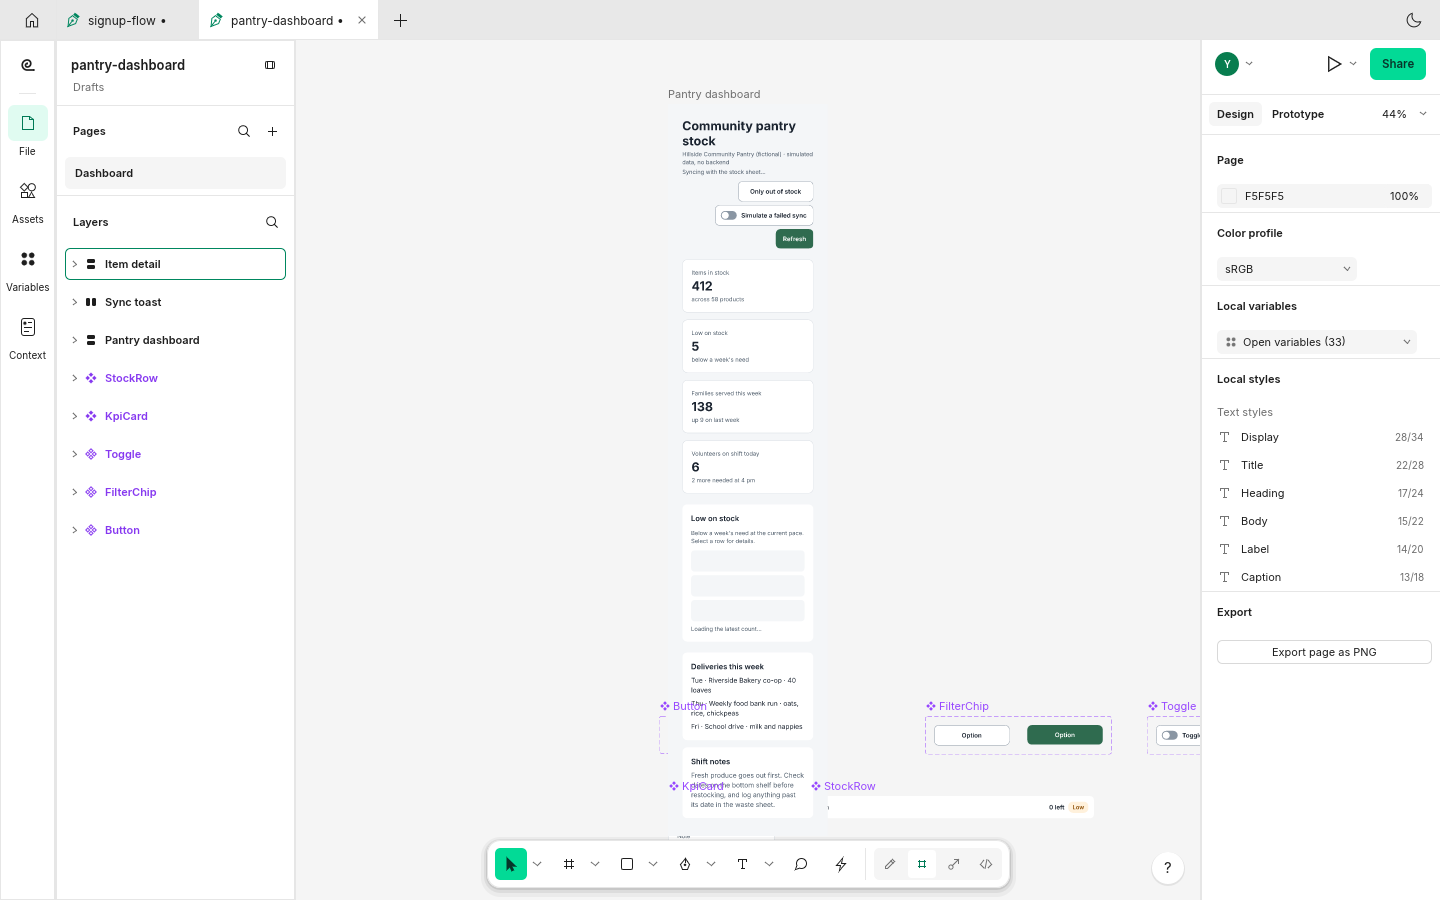
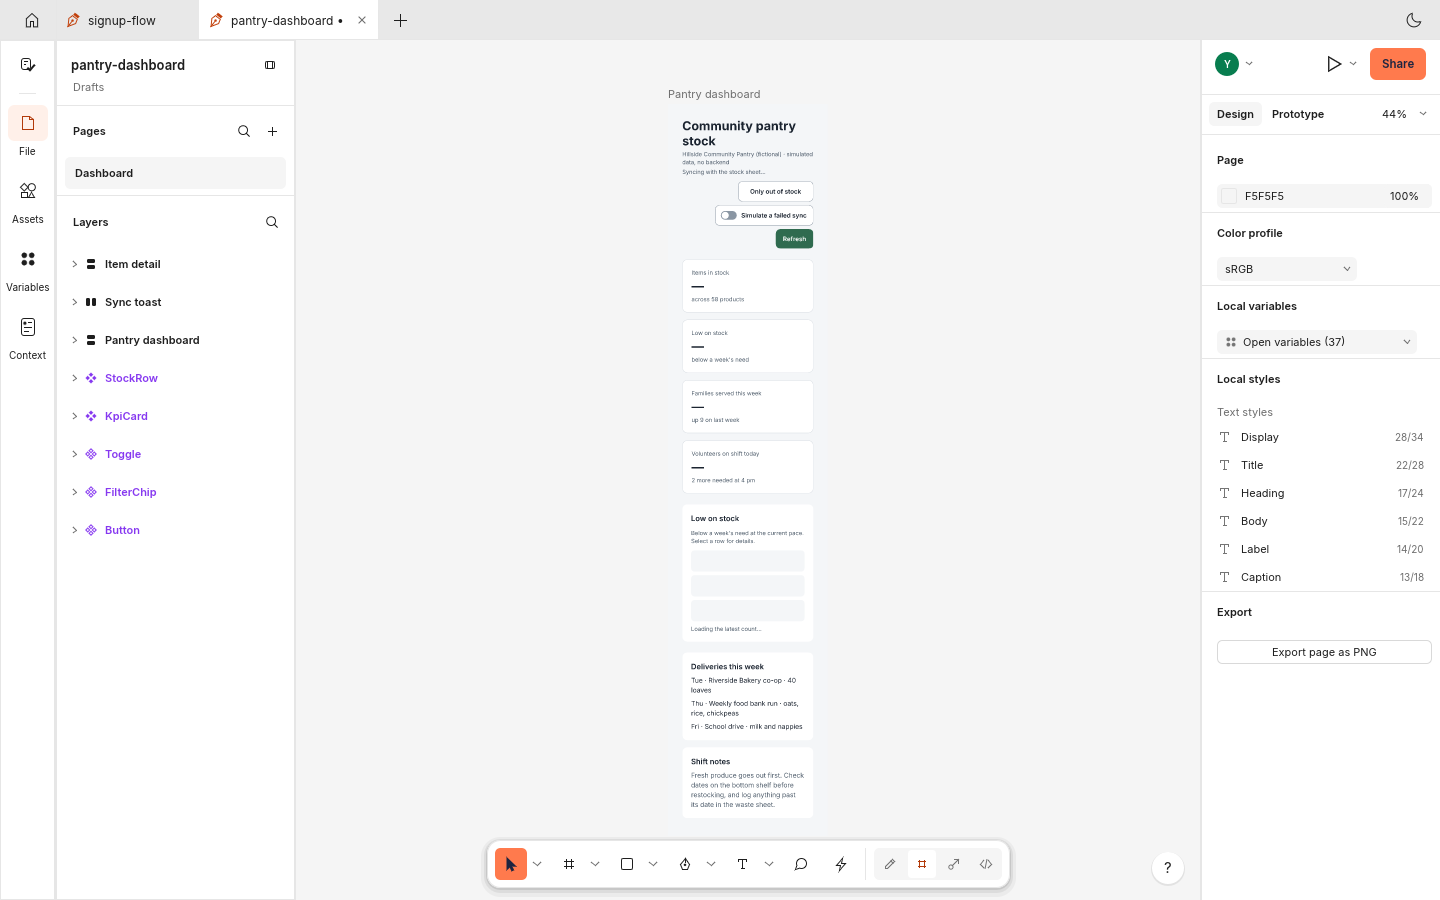
M12.9: QC round 2 on the renamed build; README screenshots retaken
Independent visual and interaction QC of f47cc033 in the real app under a
virtual display: rebrand (titles, Home, About, menus, Preferences, icon,
contrast measured from pixels), the round-1 fixes re-checked, all 17 stored
scenarios of the three examples played by clicks, the dashboard at 360, 768,
1024 and 1440, keyboard and focus in the Design context panel, and an MCP
headless smoke loop. Eleven P3 findings, no P0-P2, recorded in
handoff/notes/qc-round2.md.

The six README screenshots are retaken from the renamed build, each state
reached by interaction; their ATTRIBUTION row now names this product, and
two alt texts say what the new shots show.

Claude-Session: https://claude.ai/code/session_01NT1fFtd1KY9JYJDETFt3rQ

diff --git a/handoff/notes/qc-round2.md b/handoff/notes/qc-round2.md
@@ -1,0 +1,209 @@
+# Visual/interaction QC round 2 (release f47cc033, renamed build, real app under Xvfb)
+
+Reviewer: an independent QC agent that did not write the code or the round-1 fixes.
+Build: `CARGO_INCREMENTAL=0 cargo build --release -p figcraft -p figcraft-cli` at `f47cc033`, once
+without craft-fonts (system fonts) and once with `CRAFT_FONTS_DIR` pointing at a craft-fonts checkout
+(Inter built in; the README screenshots come from this one). The app ran under Xvfb 1440×900 with
+software GL (`run_app.sh`), a fresh empty `FIGGUREMYUI_CONFIG_DIR`, on unsaved working copies of
+`examples/*.figcraft`. Input was real: `ui.input` moves, presses, releases, keys, typed text and
+wheel scrolls at window points (presenter hotspots from `ui.inspect().presenter.hotspots`); no
+`agent` on any of them. Exceptions, named where they occur: files were opened with `file.open`
+(as the command line does), and the dashboard's custom presenter widths were set with
+`proto.settings`. Every screenshot cited was read.
+
+Screens: /tmp/claude-0/-home-user-figguremyUI/39d89997-e289-5eb4-a16b-402a776ef6a8/scratchpad/qc2/shots/
+(contrast measured from the PNG pixels with `qc2/contrast.py`: background = the box's most common
+colour, foreground = its pixel of highest contrast).
+
+## Findings
+
+| Id | Sev | One line |
+|---|---|---|
+| QC2-01 | P3 | A layer's canvas hover outline stays on while the pointer is in the Design context panel or on the left rail |
+| QC2-02 | P3 | Bike booking, Choose service: the step indicator's middle segment sits under the phone's camera cut-out |
+| QC2-03 | P3 | Pantry dashboard at 1024 px: KPI cards wrap 3 + 1, the fourth stretched across the whole row |
+| QC2-04 | P3 | Presenter: a new custom size from `proto.settings` keeps the old scroll offset; the screen is blank |
+| QC2-05 | P3 | `proto.present {start}` while the same prototype plays answers ok and doesn't restart |
+| QC2-06 | P3 | Tab (and a new form's first field) scrolls the control only to the panel's edge; its focus ring is cut off |
+| QC2-07 | P3 | Save as filter "Figgure My UI file (.figcraft)" isn't translated; the next filter is |
+| QC2-08 | P3 | A stored check finding says "Raised by: check" |
+| QC2-09 | P3 | `docs/migration.md` lists every MCP resource except `figguremyui://commands` |
+| QC2-10 | P3 | Vietnamese Preferences still shows three English labels |
+| QC2-11 | P3 | `ui.inspect().focus.region` is `designContext` while the keyboard is on the left rail; panel link buttons are all named "Remove this link" |
+
+No P0, P1 or P2 found.
+
+### QC2-01 · P3 · Canvas hover outline left on while the pointer is in the panel or on the rail
+- Steps: with the Design context panel open, put the pointer on a layer on the canvas (e.g. the
+  Welcome frame's Intro group of `signup-flow`, window point 503,400), then move it straight into the
+  panel (372,400 → 300,400) without a move over empty canvas in between. Same when the pointer goes
+  from the canvas straight to the left rail and clicks Context.
+- Expected: nothing is hovered on the canvas once the pointer has left it.
+- Actual: the layer keeps its orange hover outline (and an outlined frame keeps its orange name)
+  until the pointer next moves over the canvas. A fast real mouse skips the 40 px between a frame
+  and the panel easily. With the Layers panel showing it hardly shows, because a hovered layer row
+  sets the hover each frame (`panels/layers.rs:1412`, `ds.hover = h`).
+- Evidence: `015c-into-panel-crop.png` (Intro outlined, pointer in the panel); `013-vi-flow.png`,
+  `017-vi-scen-run.png` (Verify code outlined while the pointer is in the panel);
+  `100-editor-signup-fonts.png` (right after launch: pointer on the rail, Verify code outlined);
+  `014c-hover-after-leave-crop.png` (cleared when the path crossed empty canvas).
+- Suspected location: the leave branch in `crates/ui-egui/src/canvas/input.rs` (≈ lines 221–233
+  and 353–360) isn't reached, or doesn't clear the session's hover, when the next frame's pointer is
+  over the left sidebar; not confirmed in the code.
+
+### QC2-02 · P3 · (example) bike booking: Choose service's step indicator under the camera cut-out
+- Steps: play `bike-repair-booking` (iPhone 16 frame, the file's device), any scenario.
+- Expected: nothing of the screen's content under the cut-out, as on Details and Confirm (their
+  Back row sits left of it).
+- Actual: on Choose service the "2. Thời gian" progress segment is hidden behind the cut-out.
+- Evidence: `p-bike-S2-07.png`, zoom `p-bike-island-zoom.png`.
+- Location: the example's generator, `examples/build/build_examples.py` (Choose service frame,
+  node 80: auto layout padding top 24, while Details/Confirm use 12 plus a Back row).
+
+### QC2-03 · P3 · (example) pantry dashboard at 1024 px: KPI cards 3 + 1
+- Steps: present `pantry-dashboard` at a custom size 1024×800 (`proto.settings`, then Restart).
+- Expected: a balanced row (four, or two and two); `docs/examples.md` gives 4 at 1100/1440, 2 at
+  768, 1 at 360 and says nothing of 1024.
+- Actual: three cards in the first row and "Volunteers on shift today" alone across the full width
+  of the second. Nothing is clipped. 360, 768 and 1440 look as documented.
+- Evidence: `w-1024-top.png`; `w-360-top.png`, `w-360-bottom.png`, `w-768-bottom.png`,
+  `w-1440-top.png`.
+- Location: the KPI row's wrap and the cards' minimum width in `examples/build/build_examples.py`.
+
+### QC2-04 · P3 · Presenter: scroll not clamped after `proto.settings` changes the screen size
+- Steps: present the dashboard at Custom size 360×800, scroll to the bottom (scroll 850 of 850),
+  then `proto.settings {device: "Custom size", width: 768, height: 800}` while it plays.
+- Expected: the scroll offset clamped to the new range (0–100).
+- Actual: `presenter.scroll` stays `[0, 850]` with `scrollRange` `[0, 100]`; the viewport shows
+  only the frame's empty background. Choosing a device in the presenter's own menu resets the
+  scroll to 0 (`046c-ipadmini-after.png`), so a person using the player's menu doesn't see it; an
+  agent, a script, or (not tried) the Prototype tab's size fields do.
+- Evidence: `047-settings-scroll-unclamped.png` (blank 768 screen), also `w-768-top.png`.
+- Suspected location: `crates/ui-egui/src/present/navigate.rs` ≈ line 49 clamps each stored
+  scroll against `self.doc` before the relayout for the new screen; not confirmed.
+
+### QC2-05 · P3 · `proto.present {start}` doesn't restart a prototype that already plays from it
+- Steps: play `signup-flow` from Sign-up form (54) and go on to Verify code by clicks; then
+  `engine.execute proto.present {start: 54}`.
+- Expected: the player restarts at 54, or an answer that says it already plays.
+- Actual: `{ok: true, result: {start: 54}}`; `presenter.current` stays 92 (Verify code), history
+  `[54]`. With a different start it does start there. (A person uses Restart, which works.)
+- Evidence: command output in this note's session (`play.py` runs S2/S6 before the fix to the
+  script); inspect after the call: `[92, "Verify code", [54], 54]`.
+
+### QC2-06 · P3 · Focus scrolled into view only to the panel's edge
+- Steps: Design context ▸ Brief, press Tab until "What can't change?" / "How would we know it
+  works?" fields; or Findings ▸ Add a judgement or feedback.
+- Expected: the focused control and its focus ring entirely in view (a small margin).
+- Actual: the control is scrolled just to the bottom edge: the ring's lower edge (and part of a
+  two-line field) is cut off; the new form's first field shows at the very bottom.
+- Evidence: `tab-brief-24.png`, `tab-brief-30.png`, zoom `tab-brief-30-zoom.png`; `135-add-form.png`.
+- Location: `crate::a11y::scroll_focus` as used by the panel (`panels/design_context.rs:762`),
+  the QC-04 fix.
+
+### QC2-07 · P3 · Save as filter label not translated
+- Steps: Vietnamese UI, File ▸ Save as.
+- Expected: the file-type label in the UI language (the brand name itself stays).
+- Actual (from the code; the native dialog couldn't be captured under Xvfb):
+  `apps/figcraft/src/services.rs:491` and `:698` pass the literal `"Figgure My UI file (.figcraft)"`
+  while the next filter goes through `tr(".fig (experimental)")` (`".fig (thử nghiệm)"` in vi.toml).
+  The English label matches the spec.
+
+### QC2-08 · P3 · "Raised by: check"
+- Steps: Findings ▸ Ready ▸ Run the checks ▸ Store what they find; look at the stored F1.
+- Actual: "Raised by / check" — the source id printed as if it were who raised it.
+- Evidence: `134-stored-bottom.png`.
+- Location: `crates/ui-egui/src/panels/design_context/findings.rs:251`
+  (`part(ui, tr("Raised by"), &f.source)`).
+
+### QC2-09 · P3 · migration note misses one resource
+- `resources/list` returns `figguremyui://document`, `…/commands`, `…/comments`, `…/design`,
+  `…/design/findings`, `…/prototype/flow`, `…/prototype/scenarios` (+ templates `…/node/{id}`,
+  `…/command/{id}`). `docs/migration.md`'s Old → new table lists all but `commands`.
+  `figcraft://commands` still reads (checked). Evidence: `qc2/mcp_smoke.log`.
+
+### QC2-10 · P3 · Vietnamese Preferences: three labels in English
+- Preferences in Vietnamese: "Invert zoom direction", "Board grid", "Graph paper" stay English.
+  Upstream catalog gaps, not from the rename. Evidence: `008-vi-prefs.png`.
+
+### QC2-11 · P3 · Panel focus names
+- Tab from the panel's chips wraps to the rail: `ui.inspect().focus` says `region: designContext`
+  for "Main menu", "File", "Assets"… (the rail, not the panel). And every layer link in an entry is
+  followed by a button named only "Remove this link", so a screen reader user hears the same name
+  several times in a row (D2 has three). Evidence: Tab walk output (Brief and Decisions sections,
+  this session). Location: `crates/ui-egui/src/app/control.rs:48`; the link list in
+  `panels/design_context.rs` (`layer_links`).
+
+## Round 1 re-check (fixed items, original steps repeated on f47cc033)
+
+| Id | Result | Evidence |
+|---|---|---|
+| QC-01 | **fixed** — ran scenarios (6/6), flow check (5 of 5) and checks (13 run, 0 reported) in sign-up; opened bike: no results shown (all `null`); tab click back to sign-up: its own results, not stale | `030-qc01-bike-findings.png`, `031-qc01-back-signup.png` |
+| QC-02 | **fixed** — S6 by clicks: summary "Còn thiếu số điện thoại hoặc email." after the name, gone after the contact | `p-signup-S6-03.png`, `p-signup-S6-04.png` |
+| QC-03 | **fixed** — S6 by clicks: Confirm ▸ Đổi (time) ▸ Details ▸ ‹ Quay lại → Choose service | `play.py` log (S6 step 7 → 80) |
+| QC-04 | **fixed**, with QC2-06 — the focused control is scrolled into view | `tab-brief-24.png`, `tab-brief-30.png` |
+| QC-05 | **fixed** — dark theme, frame names on the #F5F5F5 page #6E6E6E, 4.68:1 | `150-dark-decisions.png` |
+| QC-06 | **fixed** — simulator caveat items in Vietnamese; "Tài nguyên" wraps on two lines; the English-messages note shows | `017-vi-scen-run.png`, `008-vi-prefs.png` |
+| QC-08 | **fixed** — Store what they find: "Stored 1 new", checks not stale, no "changed since" line | `133-stored.png` |
+| QC-09 | **fixed** — resend toast under its link; sync toast under Refresh, clear of the pager | `p-signup-S4-01.png`, `p-pantry-S3-03.png` |
+| QC-10 | **fixed** — "5 of 5 screens" (headless: 5 non-component screens, all reachable) | `019-vi-flowcheck.png`, `headless.log` |
+| QC-14 subset | **fixed** where seen — a link and its × together; a two-line field's ring goes round it; new forms focus their first field (feedback, assumption); "Tiếp tục" doesn't move (y 774 disabled and enabled); KPI placeholders while loading. Not seen: the compare table (no alternative made) | `150-dark-decisions.png`, `tab-brief-30-zoom.png`, `152-dark-add-assumption.png`, `p-signup-S5-03.png`, `w-360-top.png` |
+| QC-14 rest | **fixed** — the dashboard at 360 no longer covers the component sheet | `124-pantry-360.png` |
+| QC-15 | **fixed** — "Accepted · proposed by Example builder (agent) · accepted by you"; an agent's D4 "Proposed · proposed by Claude (agent) · Waiting for you to accept it" | `150-dark-decisions.png`, `018-vi-flow-bottom.png` |
+| QC-16 | **fixed** — `focus.region` `designContext`, `entry` D1…, control names (with QC2-11) | Tab walk output |
+
+Still as documented (not in round 1's fix list): QC-07 (suggestions show command ids, e.g.
+"(design.assumption.set)", `133-stored.png`), QC-11 (pager "2 / 10" counts components), QC-12, QC-13.
+
+## Rebrand
+
+- **Window**: title "signup-flow – Figgure My UI" (`window.list`, X `_NET_WM_NAME`); WM class
+  `io.github.vansyson1308.figguremyui` (matches the desktop entry's `StartupWMClass`); window icon
+  256 px, the new icon (`004-wmicon-256.png`).
+- **Home**: icon and "Figgure My UI" wordmark; "UI" #B64315 on white 5.52:1, #FF9A75 on #2C2C2C
+  6.74:1; tile icons navy on orange 5.91:1 (`001-home.png`, `002-home-dark.png`).
+- **Editor**: rail logo is the new mark; Share label navy on #FF7A4D 5.91:1; Move tool 5.97:1;
+  selected rail item #B23A0A on #FFF0E9 5.39:1; frame-size label white on #C2410C 5.18:1;
+  selected frame name #C2410D on #F5F5F5 4.75:1; menu highlight white on #C2410C 5.18:1; Run all
+  (hover) navy on #F06D3C 5.05:1; Accept navy on #FF7A4D 5.91:1; dark links #FF9A75 6.74:1.
+  No text measured below 4.5:1.
+- **About** (EN light, EN dark, VI): exactly "Figgure My UI — design and verify interactive
+  prototypes with people and AI agents. Based on FigCraft by the ArtCraft team and contributors.",
+  the not-endorsed line, link #B33C0D 5.88:1, Contributors tab (upstream's list, unchanged), Models
+  tab (`025-en-about.png`, `153-dark-about.png`, `011-vi-about.png`, `012-vi-about-contrib.png`,
+  `026-en-about-models.png`).
+- **Menus/Preferences**: Help ▸ "About Figgure My UI" / "Giới thiệu về Figgure My UI"; no FigCraft
+  or ArtCraft mark anywhere else seen (Home, editor, panel, presenter, Preferences, menus, CLI help,
+  MCP instructions).
+- **CLI/MCP**: `figguremyui-cli --help` "Figgure My UI without a window"; `serverInfo`
+  `{name: "figguremyui", title: "Figgure My UI", version: "0.18.1"}`; instructions contain no
+  "FigCraft" or `figcraft://`.
+
+## The three examples
+
+All 17 stored scenarios were played in the presenter by clicks (a field tap for each typing step),
+and every screen and overlay expectation held: sign-up S1–S6, bike S1–S6, pantry S1–S5
+(`p-signup-*`, `p-bike-*`, `p-pantry-*`). The dashboard was presented at 360, 768, 1024 and 1440
+(QC2-03 at 1024; QC2-04 found on the way) and on an iPhone 16 frame (`042-pantry-iphone16.png`).
+Vietnamese and long texts: nothing clipped or overlapping in the shots read, apart from QC2-02.
+The panel's results match headless for each file: scenarios 6/6, 5/5, 6/6; flow 5 of 5 (sign-up);
+checks at Converging 13 rules, 0 reported, 5 not run; sign-up at Ready 18 rules, 1 reported
+(`context.untestedAssumption`, "3 of 3 untested") — same as `figguremyui-cli run`
+(`run-ready.out`) and `figguremyui-cli mcp` (`headless.log`).
+
+## MCP headless smoke
+
+`figguremyui-cli mcp` (`mcp_smoke.log`): initialize → serverInfo as above; `resources/list` only
+`figguremyui://` (7 + 2 templates); `resources/read figcraft://document`, `figcraft://design`,
+`figcraft://node/44`, `figcraft://commands` all read; an unknown URI is a -32002 error. Loop on a
+copy of `signup-flow`: run_scenarios 6/6, check_prototype no problems, check_design 0; a text set
+to #DDDDDD → `contrast.text` "1.35:1, needs 4.5:1"; recorded as F1; fixed; `design.finding.recheck`
+→ F1 `verified` ("`contrast.text` no longer reports it"); save, reopen, scenarios 6/6;
+`simulate_prototype` with `image: true` returned a 390×844 PNG.
+
+## Not checked
+
+- The native Save as dialog (rfd) wasn't captured under Xvfb: QC2-07 is from the code.
+- The compare table of alternatives (no alternative made); a screen-reader pass; Windows/macOS.
+- The CJK names in the language menu draw as boxes in the build without craft-fonts on this
+  machine (no CJK system fonts); not checked with them.

diff --git a/ATTRIBUTION.md b/ATTRIBUTION.md
@@ -12,7 +12,8 @@ MIT OR Apache-2.0. No third-party icon sets are used.
 | Path | Author | Source | Licence | Notes |
 |---|---|---|---|---|
 | `assets/app-icon/` (all files: `figguremyui.svg`, `figguremyui-small.svg`, `figguremyui-*.png`, `figguremyui.ico`, `hicolor/`) | Figgure My UI contributors | Original work made for Figgure My UI from simple shapes (a screen card and a check card on a tile), see [`assets/app-icon/README.md`](assets/app-icon/README.md); derived files rendered from the masters (`cargo xtask icon`) | MIT OR Apache-2.0, [`assets/app-icon/LICENSE.txt`](assets/app-icon/LICENSE.txt) | Figgure My UI app icon; no third-party material. Replaces FigCraft's chameleon icon, which stays in the repository history only |
-| `docs/images/` (all screenshots and exports: `shot-*.png`, `art-*.png`) | FigCraft contributors | Screenshots of FigCraft showing synthetic demo documents made in FigCraft, and PNG exports of those documents by FigCraft's renderer | MIT OR Apache-2.0 | No third-party artwork |
+| `docs/images/` (screenshots and exports from upstream: `shot-*.png`, `art-*.png`) | FigCraft contributors | Screenshots of FigCraft showing synthetic demo documents made in FigCraft, and PNG exports of those documents by FigCraft's renderer | MIT OR Apache-2.0 | No third-party artwork |
+| `docs/images/m11-editor-signup.png`, `docs/images/m11-presenter-signup-error.png`, `docs/images/m11-panel-findings.png`, `docs/images/m11-dashboard-1440.png`, `docs/images/m11-dashboard-360.png`, `docs/images/m11-panel-proposals-dark.png` | Figgure My UI contributors | Window screenshots of Figgure My UI (release build of `f47cc033`, under a virtual display) showing the synthetic example files in `examples/`, each state reached by clicks, keys and typing in the app (the proposal in the dark-theme shot was made by a second control connection acting as an agent) | MIT OR Apache-2.0 | Retaken 2026-11-19 after the rename (QC round 2); no third-party artwork, no personal data |
 | `examples/*.figcraft` | FigCraft contributors | Synthetic demo documents built through FigCraft's command API; invented copy, shapes and vectors drawn from scratch, no images or embedded fonts | MIT OR Apache-2.0 | Text uses Inter (OFL, from craft-fonts or the system); no third-party artwork |
 
 ## Fonts (build input, not in this repository)

diff --git a/README.md b/README.md
@@ -81,13 +81,13 @@ played by hand.
   <p align="center"><sub><b>Real states, reached by real clicks</b>: the sign-up form's validation error in the player</sub></p>
 </td>
 <td width="50%" valign="top">
-  <img src="docs/images/m11-panel-findings.png" alt="The Design context panel's Findings section after running the checks: the stage chooser, the rules that ran and those not run at this stage, and stored findings, each showing whether it is a measured check, a judgement or a person's feedback, the rule, what was measured and what would help" width="100%">
+  <img src="docs/images/m11-panel-findings.png" alt="The Design context panel's Findings section after running the checks: the stage chooser, the rules that ran and those not run at this stage, and two stored findings, a reviewer's judgement and a measured check, each marked with its kind and showing what was found and what would help" width="100%">
   <p align="center"><sub><b>Findings with evidence</b>: what was measured, by which rule, and which rules didn't run at this stage</sub></p>
 </td>
 </tr>
 <tr>
 <td width="50%" valign="top">
-  <img src="docs/images/m11-dashboard-1440.png" alt="The pantry dashboard frame at 1440 pixels wide: a header with actions, four KPI cards in one row, the low-stock list and a side panel beside it" width="100%">
+  <img src="docs/images/m11-dashboard-1440.png" alt="The pantry dashboard frame at 1440 pixels wide, in the loading state it opens in: a header with actions, four KPI cards in one row showing placeholders, the low-stock list and a side panel beside it" width="100%">
   <p align="center"><sub><b>Responsive by constraints and auto layout</b>: the dashboard at 1440 px …</sub></p>
 </td>
 <td width="50%" valign="top">
